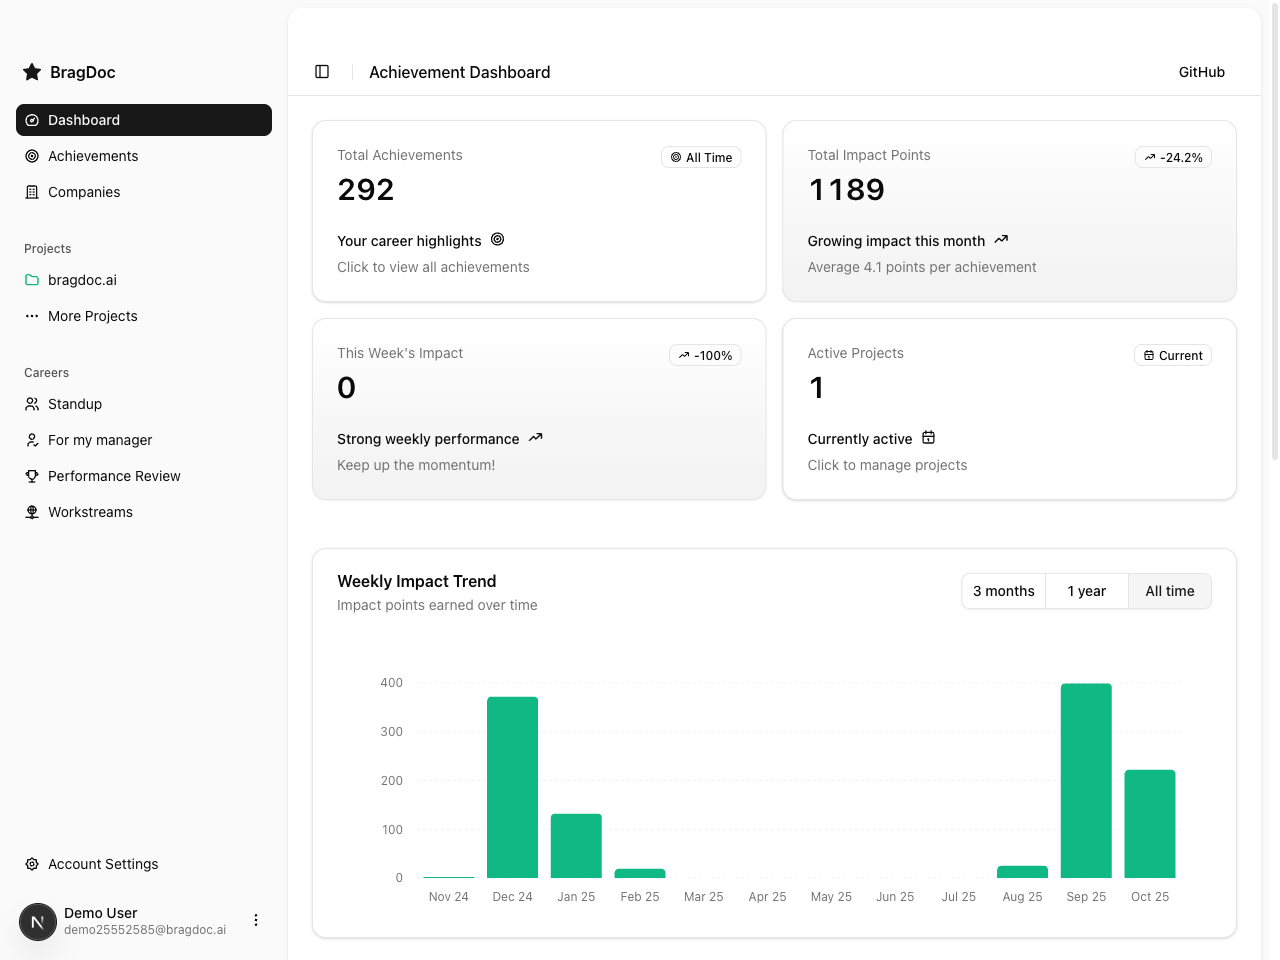
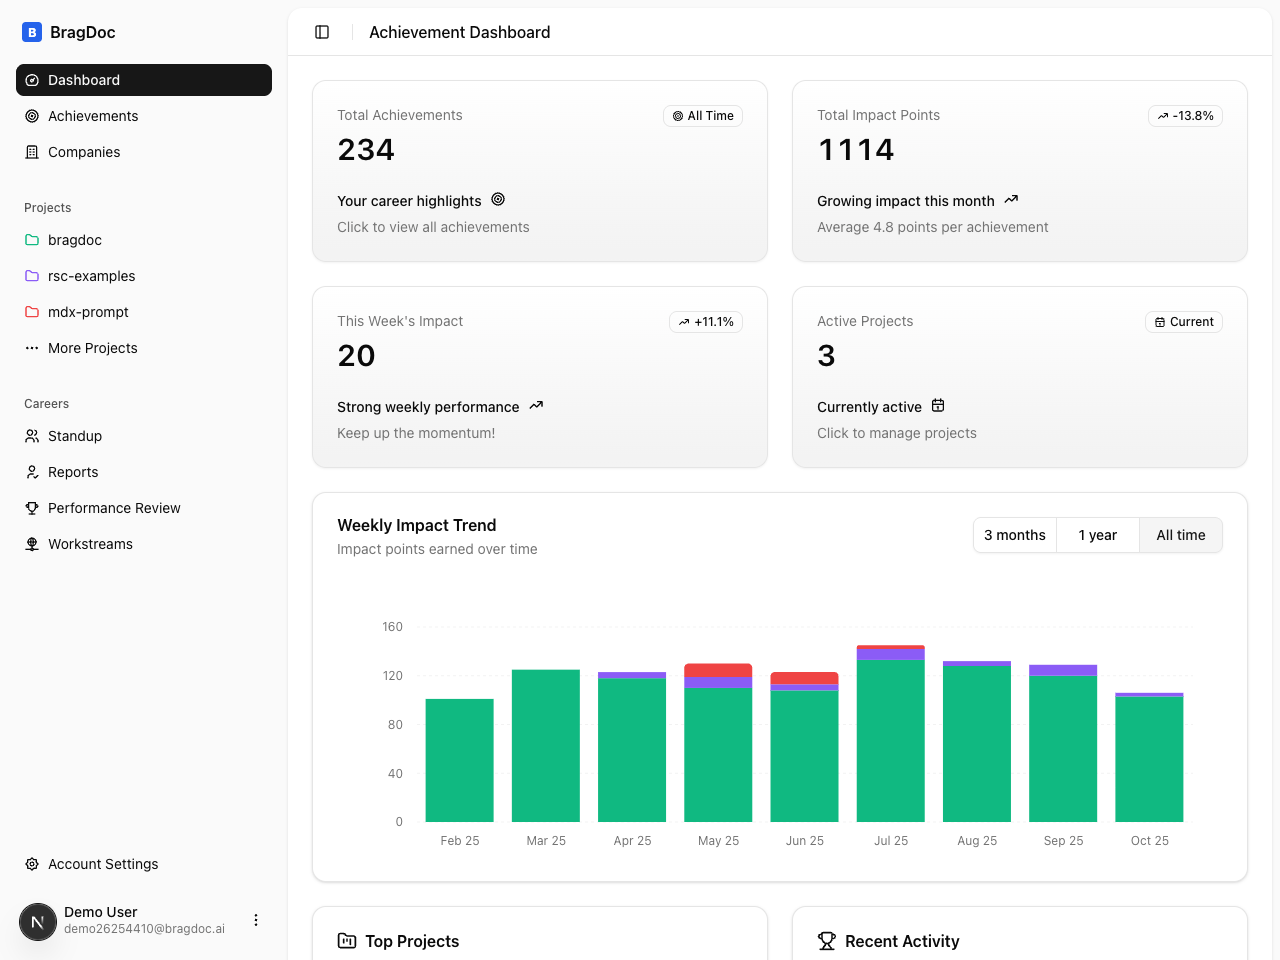
added dopey meet the team component to home page (#212)
* added dopey meet the team component to home page

* better product screenshots

diff --git a/apps/marketing/components/meet-the-team-intro.tsx b/apps/marketing/components/meet-the-team-intro.tsx
@@ -1,0 +1,245 @@
+'use client';
+
+import Link from 'next/link';
+import Image from 'next/image';
+import { edProfile, nataliaProfile } from '@/lib/team-data';
+import { useState, useEffect } from 'react';
+
+// Select some notable agents to showcase (including Gandalf!)
+const featuredAgents = [
+  {
+    name: 'Gandalf',
+    avatar: '/team/gandalf-spencer.jpg',
+    isPhoto: true,
+  },
+  {
+    name: 'Spec Writer',
+    avatar: 'https://api.dicebear.com/9.x/micah/svg?seed=spec-writer',
+  },
+  {
+    name: 'Code Writer',
+    avatar: 'https://api.dicebear.com/9.x/micah/svg?seed=code-writer',
+  },
+  {
+    name: 'Browser Tester',
+    avatar: 'https://api.dicebear.com/9.x/micah/svg?seed=browser-tester',
+  },
+  {
+    name: 'Engineering Manager',
+    avatar: 'https://api.dicebear.com/9.x/micah/svg?seed=engineering-manager',
+  },
+  {
+    name: 'Blog Writer',
+    avatar: 'https://api.dicebear.com/9.x/micah/svg?seed=blog-writer',
+  },
+  {
+    name: 'Plan Writer',
+    avatar: 'https://api.dicebear.com/9.x/micah/svg?seed=plan-writer',
+  },
+  {
+    name: 'Code Checker',
+    avatar: 'https://api.dicebear.com/9.x/micah/svg?seed=code-checker',
+  },
+  {
+    name: 'Documentation Manager',
+    avatar: 'https://api.dicebear.com/9.x/micah/svg?seed=documentation-manager',
+  },
+  {
+    name: 'Marketing Site Manager',
+    avatar:
+      'https://api.dicebear.com/9.x/micah/svg?seed=marketing-site-manager',
+  },
+  {
+    name: 'Screenshotter',
+    avatar: 'https://api.dicebear.com/9.x/micah/svg?seed=screenshotter',
+  },
+];
+
+interface AgentAvatarProps {
+  agent: { name: string; avatar: string; isPhoto?: boolean };
+  size: number;
+  index: number;
+}
+
+function AgentAvatar({ agent, size, index }: AgentAvatarProps) {
+  const [isHovered, setIsHovered] = useState(false);
+  const [position, setPosition] = useState<{
+    top: string;
+    left: string;
+  } | null>(null);
+
+  useEffect(() => {
+    // Generate random position on mount
+    const randomTop = Math.random() * 70 + 5; // 5% to 75%
+    const randomLeft = Math.random() * 70 + 5; // 5% to 75%
+    setPosition({ top: `${randomTop}%`, left: `${randomLeft}%` });
+  }, []);
+
+  // Don't render until we have a position (prevents flash)
+  if (!position) return null;
+
+  return (
+    <div
+      className={`absolute animate-float transition-all duration-300 ${isHovered ? 'z-40 scale-125' : 'z-10'}`}
+      style={{
+        top: position.top,
+        left: position.left,
+        animationDelay: `${index * 0.3}s`,
+      }}
+      onMouseEnter={() => setIsHovered(true)}
+      onMouseLeave={() => setIsHovered(false)}
+    >
+      <Link href="/team" className="relative block">
+        <div
+          className="rounded-full overflow-hidden border-4 border-white/20 shadow-xl transition-all duration-300 backdrop-blur-sm bg-white/30"
+          style={{ width: size, height: size }}
+        >
+          <Image
+            src={agent.avatar}
+            alt={agent.name}
+            width={size}
+            height={size}
+            unoptimized={!agent.isPhoto}
+            className="object-cover"
+          />
+        </div>
+        {/* Agent name on hover - appears below avatar */}
+        <div
+          className={`absolute top-full left-1/2 -translate-x-1/2 mt-2 px-3 py-1.5 bg-foreground text-background text-xs font-medium rounded-md whitespace-nowrap transition-opacity duration-300 z-50 ${
+            isHovered ? 'opacity-100' : 'opacity-0 pointer-events-none'
+          }`}
+        >
+          {agent.name}
+        </div>
+      </Link>
+    </div>
+  );
+}
+
+export function MeetTheTeamIntro() {
+  return (
+    <section className="py-24 px-4 sm:px-6 lg:px-8 bg-gradient-to-br from-background via-muted/20 to-background overflow-hidden">
+      <div className="container mx-auto max-w-7xl">
+        <div className="grid lg:grid-cols-2 gap-12 items-center">
+          {/* Left side: Text content */}
+          <div className="space-y-6">
+            <h2 className="text-4xl sm:text-5xl font-bold tracking-tight">
+              Hi, I&apos;m Ed 👋
+            </h2>
+            <div className="space-y-4 text-lg text-muted-foreground leading-relaxed">
+              <p>
+                I built BragDoc to solve a problem that plagued my own career
+                transitions—tracking and articulating my professional
+                achievements.
+              </p>
+              <p>
+                Together with Natalia and our Chief Morale Officer Gandalf, we
+                lead a team of 14 specialized AI agents that power BragDoc's
+                development.
+              </p>
+              <p>
+                Click an agent on the right to learn more about our agentic team
+                and how we build software together.
+              </p>
+            </div>
+
+            {/* Profile cards for Ed and Natalia */}
+            <div className="grid grid-cols-1 sm:grid-cols-2 gap-6 pt-4">
+              <div className="flex items-center gap-3">
+                <Link
+                  href="/team"
+                  className="relative w-16 h-16 rounded-full overflow-hidden border-2 border-muted shadow-md hover:scale-105 transition-transform"
+                >
+                  <Image
+                    src={edProfile.avatarUrl!}
+                    alt={edProfile.name}
+                    width={64}
+                    height={64}
+                    className="object-cover"
+                  />
+                </Link>
+                <div>
+                  <Link href="/team" className="hover:underline">
+                    <p className="font-semibold text-foreground">
+                      {edProfile.name}
+                    </p>
+                  </Link>
+                  <p className="text-sm text-muted-foreground">
+                    {edProfile.role.split('/')[0].trim()}
+                  </p>
+                </div>
+              </div>
+
+              <div className="flex items-center gap-3">
+                <Link
+                  href="/team"
+                  className="relative w-16 h-16 rounded-full overflow-hidden border-2 border-muted shadow-md hover:scale-105 transition-transform"
+                >
+                  <Image
+                    src={nataliaProfile.avatarUrl!}
+                    alt={nataliaProfile.name}
+                    width={64}
+                    height={64}
+                    className="object-cover"
+                  />
+                </Link>
+                <div>
+                  <Link href="/team" className="hover:underline">
+                    <p className="font-semibold text-foreground">
+                      {nataliaProfile.name}
+                    </p>
+                  </Link>
+                  <p className="text-sm text-muted-foreground">
+                    {nataliaProfile.role}
+                  </p>
+                </div>
+              </div>
+            </div>
+          </div>
+
+          {/* Right side: Agent avatar collage */}
+          <div className="relative h-[500px] lg:h-[600px] group agent-container">
+            {/* Agent avatars scattered randomly */}
+            {featuredAgents.map((agent, index) => {
+              // Stable varied sizes for visual interest - Gandalf gets a bigger size!
+              const sizes = [
+                150, 96, 128, 112, 144, 104, 120, 116, 108, 132, 100,
+              ];
+              return (
+                <AgentAvatar
+                  key={agent.name}
+                  agent={agent}
+                  size={sizes[index] || 112}
+                  index={index}
+                />
+              );
+            })}
+          </div>
+        </div>
+      </div>
+
+      {/* CSS for floating animation */}
+      <style jsx>{`
+        @keyframes float {
+          0%,
+          100% {
+            transform: translateY(0px) translateX(0px);
+          }
+          25% {
+            transform: translateY(-16px) translateX(8px);
+          }
+          50% {
+            transform: translateY(-24px) translateX(-8px);
+          }
+          75% {
+            transform: translateY(-16px) translateX(8px);
+          }
+        }
+
+        :global(.animate-float) {
+          animation: float 8s ease-in-out infinite;
+        }
+      `}</style>
+    </section>
+  );
+}

diff --git a/apps/marketing/app/page.tsx b/apps/marketing/app/page.tsx
@@ -2,6 +2,7 @@ import type { Metadata } from 'next';
 import { Header } from '@/components/header';
 import { HeroSection } from '@/components/hero-section';
 import { VideoSection } from '@/components/video-section';
+import { MeetTheTeamIntro } from '@/components/meet-the-team-intro';
 import { ProblemSolutionV2 } from '@/components/problem-solution-v2';
 import { FeaturesSection } from '@/components/features-section';
 import { PrivacySection } from '@/components/privacy-section';
@@ -50,6 +51,7 @@ export default function Home() {
       <main>
         <HeroSection />
         <VideoSection />
+        <MeetTheTeamIntro />
         <ProblemSolutionV2 />
         <FeaturesSection />
         <PrivacySection />

diff --git a/apps/web/components/demo-mode-layout.tsx b/apps/web/components/demo-mode-layout.tsx
@@ -15,8 +15,11 @@ export function DemoModeLayout({ children }: { children: React.ReactNode }) {
   // Type cast to access custom Better Auth field (level is an additionalField in config)
   const isDemoUser = (session?.user as { level?: string })?.level === 'demo';
 
-  // The demo banner height
-  const bannerHeight = isDemoUser ? '40px' : '0px';
+  // Check if banner is suppressed (for screenshots, etc.)
+  const isSuppressed = process.env.NEXT_PUBLIC_SUPRESSED_DEMO_BANNER === 'true';
+
+  // The demo banner height - only set height if demo user AND not suppressed
+  const bannerHeight = isDemoUser && !isSuppressed ? '40px' : '0px';
 
   useEffect(() => {
     // Set CSS custom property on document root

diff --git a/.claude/agents/screenshotter.md b/.claude/agents/screenshotter.md
@@ -94,7 +94,44 @@ Request mentions or implies:
 
 ## Web Application Screenshot Workflow
 
-### 1. Session Initialization
+### 1. Environment Setup
+
+**CRITICAL: Before taking any UI screenshots, ensure the browser window is sized correctly and the demo banner is hidden.**
+
+**Browser Window Size:**
+
+All UI screenshots for marketing and documentation MUST use a consistent browser window size of **1280x960**. This ensures consistency across all marketing materials.
+
+Use `mcp__playwright__browser_resize` immediately after starting:
+
+```json
+{
+  "width": 1280,
+  "height": 960
+}
+```
+
+**Hide Demo Mode Banner:**
+
+The demo mode banner appears at the top of all pages when using demo accounts. For clean marketing screenshots, this MUST be suppressed.
+
+Before taking screenshots, use `browser_evaluate` to set the environment variable:
+
+```javascript
+// Suppress demo banner for clean screenshots
+window.localStorage.setItem('NEXT_PUBLIC_SUPRESSED_DEMO_BANNER', 'true');
+```
+
+**Note:** This is different from the server-side environment variable. The banner component checks `process.env.NEXT_PUBLIC_SUPRESSED_DEMO_BANNER`, but for browser-based screenshots, we can simulate this by setting a localStorage flag that the screenshotter can check. However, the **better approach** is to ensure `NEXT_PUBLIC_SUPRESSED_DEMO_BANNER=true` is set in the `.env.local` file before starting the dev server.
+
+**Recommended Workflow:**
+
+1. Verify `.env.local` contains `NEXT_PUBLIC_SUPRESSED_DEMO_BANNER=true`
+2. Ensure dev server is running with this environment variable
+3. Resize browser to 1280x960
+4. Proceed with demo account creation and screenshot capture
+
+### 2. Session Initialization
 
 ALWAYS begin by creating a demo account:
 
@@ -557,7 +594,7 @@ Based on BragDoc's technical architecture:
 2. **Clear focus**: The primary subject should be obvious and well-framed
 3. **Complete information**: Don't cut off important text, buttons, or labels
 4. **Professional data**: If showing populated states, use realistic, professional-looking content
-5. **Consistent viewport**: Use standard desktop viewport (1280x720 or similar) unless requested otherwise
+5. **Consistent viewport**: **ALWAYS use 1280x960 browser window size** for all marketing/documentation screenshots
 
 ### When to Take Multiple Screenshots
 
@@ -717,12 +754,15 @@ For each screenshot, briefly describe:
 
 **For Web Application Screenshots:**
 
+- [ ] Browser window resized to 1280x960 (CRITICAL for marketing screenshots)
+- [ ] Demo banner suppressed (NEXT_PUBLIC_SUPRESSED_DEMO_BANNER=true in .env.local OR via browser_evaluate)
 - [ ] Demo account created successfully
 - [ ] Navigated to correct location via UI
 - [ ] Visual state is as requested (empty/populated/interaction)
 - [ ] Scrollbars hidden using browser_evaluate before screenshot
 - [ ] Screenshot is clear and well-composed
 - [ ] No scrollbars visible in the captured image
+- [ ] No demo banner visible in the captured image
 - [ ] File saved with descriptive name in ./screenshots/
 - [ ] Absolute file path provided in output
 - [ ] Brief description of what's captured included
